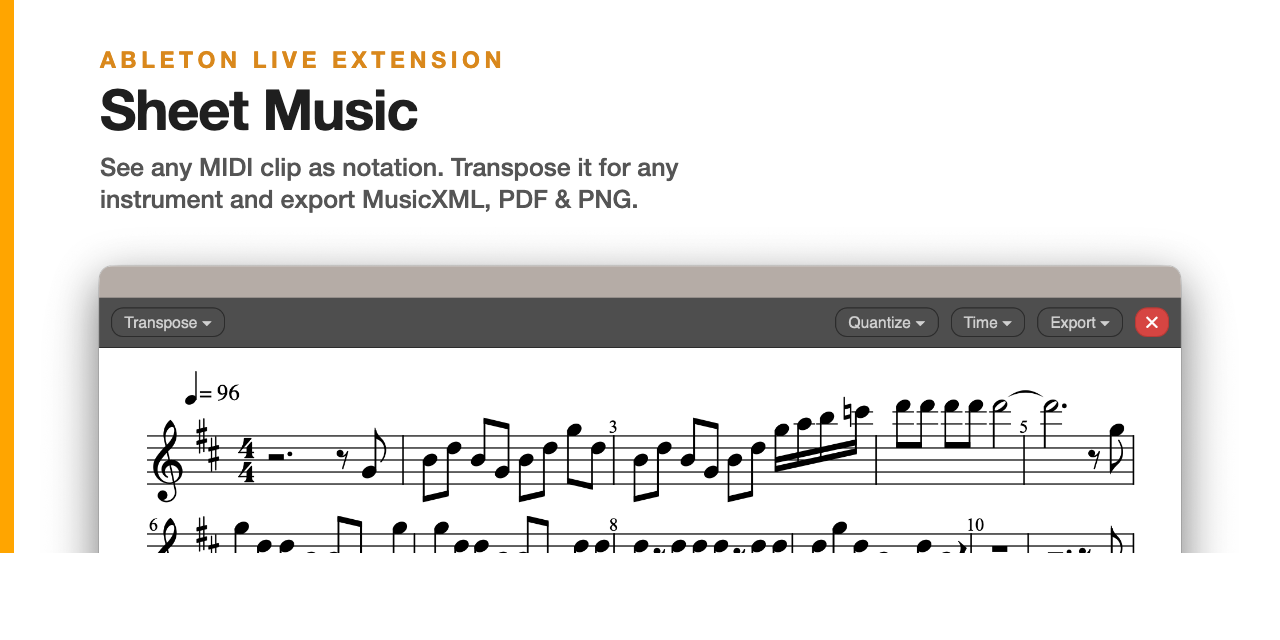
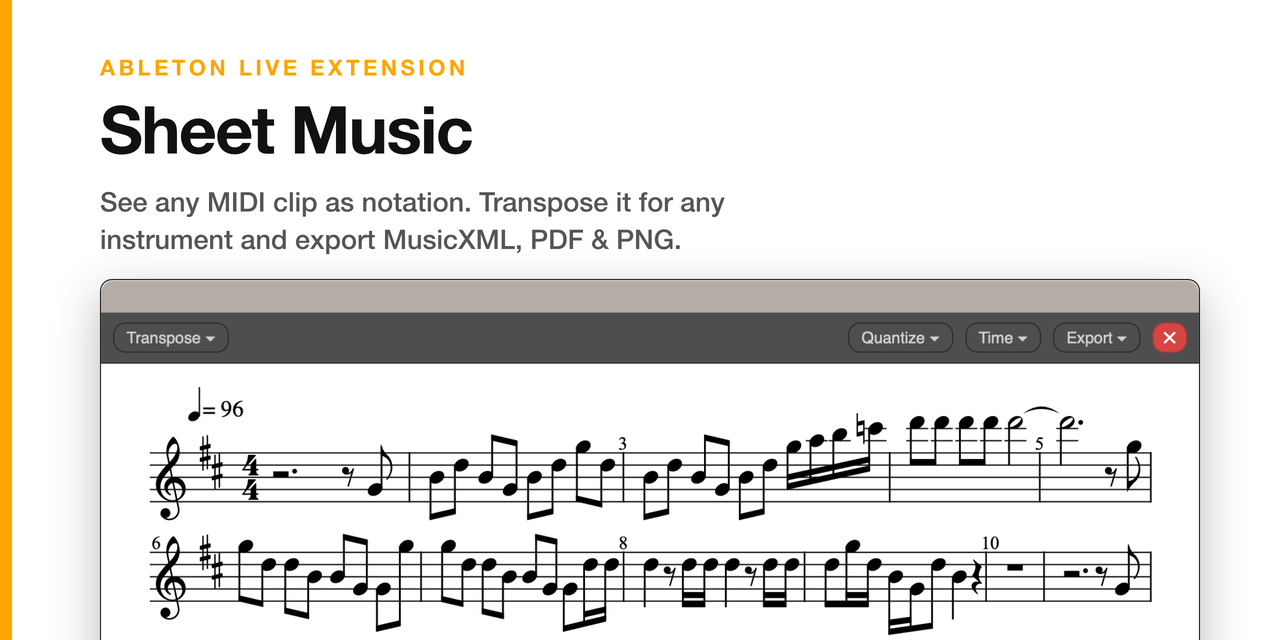
docs: regenerate social card — full-width window cut cleanly at the staff gap
The hero window no longer bleeds off the right edge, and the bottom edge now
lands in the white gap after the second system: no note stems are clipped and
the third system isn't partially visible.

Adds scripts/social-card.py — the card generator ported from the sibling
AbleVSEP repo and made offline-safe (ImageMagick downscale instead of Pillow).
The hero is derived from docs/screenshot.png (crop steps documented in the
script); --hero-top positions the bottom cut in the staff gap.

Changed region(s): [[0.0625, 0.0625, 0.9375, 1.0], [0.0, 0.8438, 0.0312, 1.0], [0.9375, 0.875, 0.9688, 1.0]]

diff --git a/scripts/social-card.py b/scripts/social-card.py
@@ -1,0 +1,110 @@
+# /// script
+# requires-python = ">=3.11"
+# dependencies = []
+# ///
+"""Generate the GitHub social-preview card for the Sheet Music extension.
+
+Renders an HTML card (white bg, orange accent bar + eyebrow, bold title, gray
+tagline, and a hero screenshot peeking up from the bottom) to a 1280x640 PNG —
+the GitHub social-preview spec. Ported from the sibling AbleVSEP card so both
+extensions share one generator.
+
+The window is full width (no edge bleed on the sides) and bleeds off the BOTTOM,
+so --hero-top is tuned to land the card's bottom edge (640px) in a clean staff
+gap: staff 3 is clipped off-canvas with no bottom border and no clipped stems.
+Build a clean hero by cropping the screenshot to its opaque window:
+
+  bbox=$(magick docs/screenshot.png -alpha extract -threshold 50% -format "%@" info:)
+  magick docs/screenshot.png -crop "$bbox" +repage -background white -alpha remove -alpha off /tmp/smx-hero.png
+
+Usage:
+  uv run scripts/social-card.py --title "Sheet Music" \
+      --tagline "See any MIDI clip as notation. Transpose it for any instrument and export MusicXML, PDF & PNG." \
+      --hero /tmp/smx-hero.png --out docs/social-preview.png
+
+If the system spacing changes, re-tune --hero-top until the bottom edge sits in a
+pure-white gap (no stems clipped, next system not visible).
+
+Rendering uses the cached Playwright chrome-headless-shell at 2x, then downscales
+with Lanczos for crisp text. No network, no API calls.
+"""
+import argparse, base64, subprocess, sys, tempfile, os
+from pathlib import Path
+
+CHROME = os.path.expanduser(
+    "~/Library/Caches/ms-playwright/chromium_headless_shell-1217/"
+    "chrome-headless-shell-mac-arm64/chrome-headless-shell"
+)
+
+HTML = """<!doctype html><html><head><meta charset="utf-8"><style>
+  * {{ margin:0; padding:0; box-sizing:border-box; }}
+  html,body {{ width:1280px; height:640px; }}
+  body {{ background:#fff; position:relative; overflow:hidden;
+         font-family:-apple-system,"Helvetica Neue",Arial,sans-serif;
+         -webkit-font-smoothing:antialiased; }}
+  .bar {{ position:absolute; left:0; top:0; bottom:0; width:12px; background:#FFA500; }}
+  .content {{ position:absolute; left:100px; top:54px; right:48px; z-index:2; }}
+  .eyebrow {{ color:#FFA500; font-weight:700; font-size:22px;
+             letter-spacing:3.5px; text-transform:uppercase; }}
+  .title {{ color:#111; font-weight:800; font-size:{title_size}px;
+           letter-spacing:-1.5px; margin-top:14px; line-height:1.02; }}
+  .tagline {{ color:#555; font-weight:500; font-size:27px; line-height:1.4;
+             margin-top:20px; max-width:660px; }}
+  .hero {{ position:absolute; left:100px; right:80px; top:{hero_top}px;
+          border-radius:12px 12px 0 0; box-shadow:0 16px 48px rgba(0,0,0,0.28);
+          border:1px solid rgba(0,0,0,0.10); overflow:hidden; background:#1a1a1a; }}
+  .hero img {{ width:100%; display:block; }}
+</style></head><body>
+  <div class="bar"></div>
+  <div class="content">
+    <div class="eyebrow">{eyebrow}</div>
+    <div class="title">{title}</div>
+    <div class="tagline">{tagline}</div>
+  </div>
+  <div class="hero"><img src="data:image/png;base64,{hero_b64}"></div>
+</body></html>"""
+
+
+def main():
+    ap = argparse.ArgumentParser()
+    ap.add_argument("--title", required=True)
+    ap.add_argument("--tagline", required=True)
+    ap.add_argument("--eyebrow", default="ABLETON LIVE EXTENSION")
+    ap.add_argument("--hero", required=True)
+    ap.add_argument("--out", required=True)
+    ap.add_argument("--title-size", type=int, default=66)
+    # Offset of the window's top. Tune so the card's bottom edge (640px) lands in a
+    # clean staff gap — the window bleeds off-canvas below, so staff 3 is clipped
+    # with no bottom border and no clipped stems.
+    ap.add_argument("--hero-top", type=int, default=279)
+    args = ap.parse_args()
+
+    if not Path(CHROME).exists():
+        sys.exit(f"chrome-headless-shell not found at {CHROME}")
+
+    hero_b64 = base64.b64encode(Path(args.hero).read_bytes()).decode()
+    html = HTML.format(
+        eyebrow=args.eyebrow, title=args.title, tagline=args.tagline,
+        hero_b64=hero_b64, title_size=args.title_size, hero_top=args.hero_top,
+    )
+    with tempfile.TemporaryDirectory() as td:
+        htmlp = Path(td) / "card.html"
+        rawp = Path(td) / "raw.png"
+        htmlp.write_text(html)
+        subprocess.run([
+            CHROME, "--headless", "--no-sandbox", "--hide-scrollbars",
+            "--force-device-scale-factor=2", "--window-size=1280,640",
+            f"--screenshot={rawp}", htmlp.as_uri(),
+        ], check=True, capture_output=True)
+        # Downscale the 2x render to the 1280x640 social spec with ImageMagick
+        # (Lanczos) — flatten on white so any transparency composites correctly.
+        Path(args.out).parent.mkdir(parents=True, exist_ok=True)
+        subprocess.run([
+            "magick", str(rawp), "-background", "white", "-flatten",
+            "-filter", "Lanczos", "-resize", "1280x640!", str(args.out),
+        ], check=True)
+    print(f"wrote {args.out} ({Path(args.out).stat().st_size//1024} KB)")
+
+
+if __name__ == "__main__":
+    main()